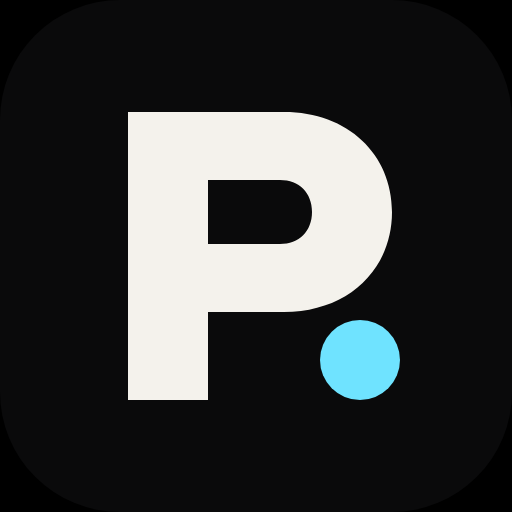
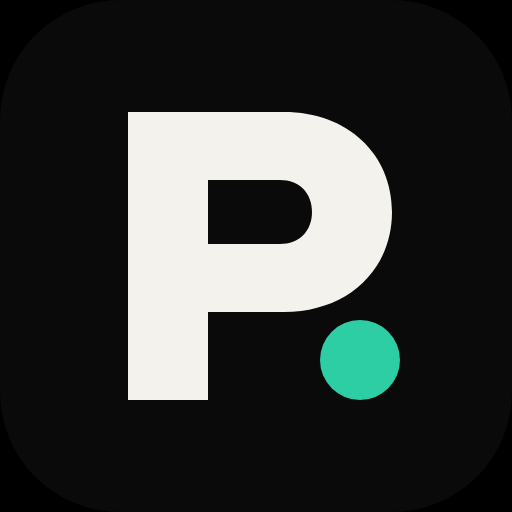
Fix mobile menu navigation, switch accent to jade green
- Mobile menu links now scroll: resume Lenis before scrollTo, since the open
  menu pauses it and a paused Lenis ignores scroll requests
- Accent colour changed from cyan to a darker turquoise green (#2dcea3) across
  tokens, glows, hero canvas, project covers, favicon set and share image

Changed region(s): [[0.625, 0.625, 0.7812, 0.7812]]

diff --git a/src/components/HeroCanvas.jsx b/src/components/HeroCanvas.jsx
@@ -6,9 +6,9 @@ import { gsap, reducedMotion } from '../lib/gsap';
  * Rendered at reduced resolution and stretched via CSS for performance.
  */
 const ORBS = [
-  { color: [111, 227, 255], r: 0.46, a: 0.42, sx: 0.32, sy: 0.9, fx: 0.00016, fy: 0.00021, ph: 0 },
+  { color: [45, 206, 163], r: 0.46, a: 0.42, sx: 0.32, sy: 0.9, fx: 0.00016, fy: 0.00021, ph: 0 },
   { color: [139, 125, 255], r: 0.4, a: 0.34, sx: 0.78, sy: 0.25, fx: 0.00013, fy: 0.00017, ph: 2.1 },
-  { color: [94, 224, 212], r: 0.44, a: 0.26, sx: 0.6, sy: 0.75, fx: 0.00019, fy: 0.00012, ph: 4.2 },
+  { color: [46, 190, 130], r: 0.44, a: 0.28, sx: 0.6, sy: 0.75, fx: 0.00019, fy: 0.00012, ph: 4.2 },
   { color: [255, 138, 91], r: 0.34, a: 0.2, sx: 0.15, sy: 0.3, fx: 0.00011, fy: 0.00015, ph: 1.1 },
 ];
 

diff --git a/src/components/Nav.css b/src/components/Nav.css
@@ -91,14 +91,14 @@
   height: 7px;
   border-radius: 50%;
   background: var(--accent);
-  box-shadow: 0 0 0 0 rgba(111, 227, 255, 0.6);
+  box-shadow: 0 0 0 0 rgba(45, 206, 163, 0.6);
   animation: pulse 2.2s infinite;
 }
 
 @keyframes pulse {
-  0% { box-shadow: 0 0 0 0 rgba(111, 227, 255, 0.55); }
-  70% { box-shadow: 0 0 0 10px rgba(111, 227, 255, 0); }
-  100% { box-shadow: 0 0 0 0 rgba(111, 227, 255, 0); }
+  0% { box-shadow: 0 0 0 0 rgba(45, 206, 163, 0.55); }
+  70% { box-shadow: 0 0 0 10px rgba(45, 206, 163, 0); }
+  100% { box-shadow: 0 0 0 0 rgba(45, 206, 163, 0); }
 }
 
 .nav__cta {

diff --git a/src/components/Now.css b/src/components/Now.css
@@ -108,13 +108,13 @@
   position: absolute;
   inset: 0;
   z-index: -1;
-  background: radial-gradient(60% 50% at 80% 0%, rgba(111, 227, 255, 0.14), transparent 70%);
+  background: radial-gradient(60% 50% at 80% 0%, rgba(45, 206, 163, 0.14), transparent 70%);
   opacity: 0;
   transition: opacity 0.5s var(--ease-out);
 }
 
 .now__card:hover {
-  border-color: rgba(111, 227, 255, 0.45);
+  border-color: rgba(45, 206, 163, 0.45);
 }
 
 .now__card:hover::after {

diff --git a/src/components/Nav.jsx b/src/components/Nav.jsx
@@ -24,7 +24,10 @@ export default function Nav() {
   const go = (id) => (e) => {
     e.preventDefault();
     setOpen(false);
-    scrollTo(`#${id}`, { offset: 0 });
+    // The open menu pauses Lenis, and a paused Lenis ignores scrollTo.
+    // Resume it before scrolling instead of waiting for the close effect.
+    getLenis()?.start();
+    scrollTo(`#${id}`, { offset: 0, force: true });
   };
 
   // Intro + hide-on-scroll + active section tracking

diff --git a/src/data/projects.js b/src/data/projects.js
@@ -9,7 +9,7 @@ export const systems = [
       'Customer data from the ERP and the webshop lands in GoHighLevel, gets segmented, and triggers sales alerts, cross-sell emails and onboarding for new accounts. The jobs run in Windmill.',
     tags: ['Windmill', 'GoHighLevel', 'REST APIs', 'TypeScript'],
     cover: { word: 'Growth', sub: 'ERP → CRM → sales alerts' },
-    accent: '#6fe3ff',
+    accent: '#2dcea3',
   },
   {
     id: 'agents',

diff --git a/src/components/Contact.css b/src/components/Contact.css
@@ -3,7 +3,7 @@
   padding-bottom: 32px;
   border-top: 1px solid var(--line);
   background:
-    radial-gradient(70% 60% at 50% 110%, rgba(111, 227, 255, 0.12), transparent 70%),
+    radial-gradient(70% 60% at 50% 110%, rgba(45, 206, 163, 0.12), transparent 70%),
     var(--bg);
   display: flex;
   flex-direction: column;

diff --git a/src/styles/global.css b/src/styles/global.css
@@ -13,7 +13,7 @@
   --muted: #7d7d86;
   --line: rgba(244, 242, 236, 0.1);
   --line-strong: rgba(244, 242, 236, 0.22);
-  --accent: #6fe3ff;
+  --accent: #2dcea3;
   --accent-ink: #0a0a0b;
   --accent-2: #8b7dff;
   --accent-3: #ff8a5b;

diff --git a/src/components/Cursor.css b/src/components/Cursor.css
@@ -52,7 +52,7 @@
   width: 56px;
   height: 56px;
   margin: -28px 0 0 -28px;
-  background: rgba(111, 227, 255, 0.18);
+  background: rgba(45, 206, 163, 0.18);
   border-color: var(--accent);
 }
 
